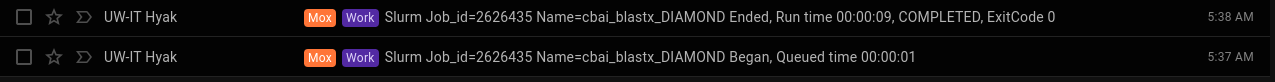
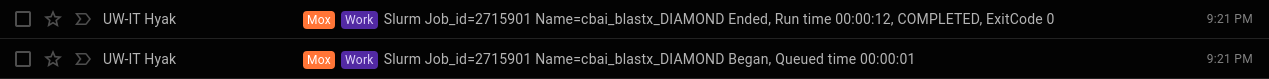
add updated runtime from rerun with fixed fastqs

diff --git a/_posts/2020/2020-05-19-Transcriptome-Annotation---C.bairdi-Transcriptome-v1.6-Using-DIAMOND-BLASTx-on-Mox.md b/_posts/2020/2020-05-19-Transcriptome-Annotation---C.bairdi-Transcriptome-v1.6-Using-DIAMOND-BLASTx-on-Mox.md
@@ -96,7 +96,7 @@ ${diamond} blastx \
 
 #### RESULTS
 
-As usual, runtime was ridiculously fast: 9 seconds
+As usual, runtime was ridiculously fast: 12 seconds
 
 ![diamond blastx runtime](https://github.com/RobertsLab/sams-notebook/blob/master/images/screencaps/20200519_cbai_diamond_blastx_transcriptome_v1.6_runtim.png?raw=true)
 
